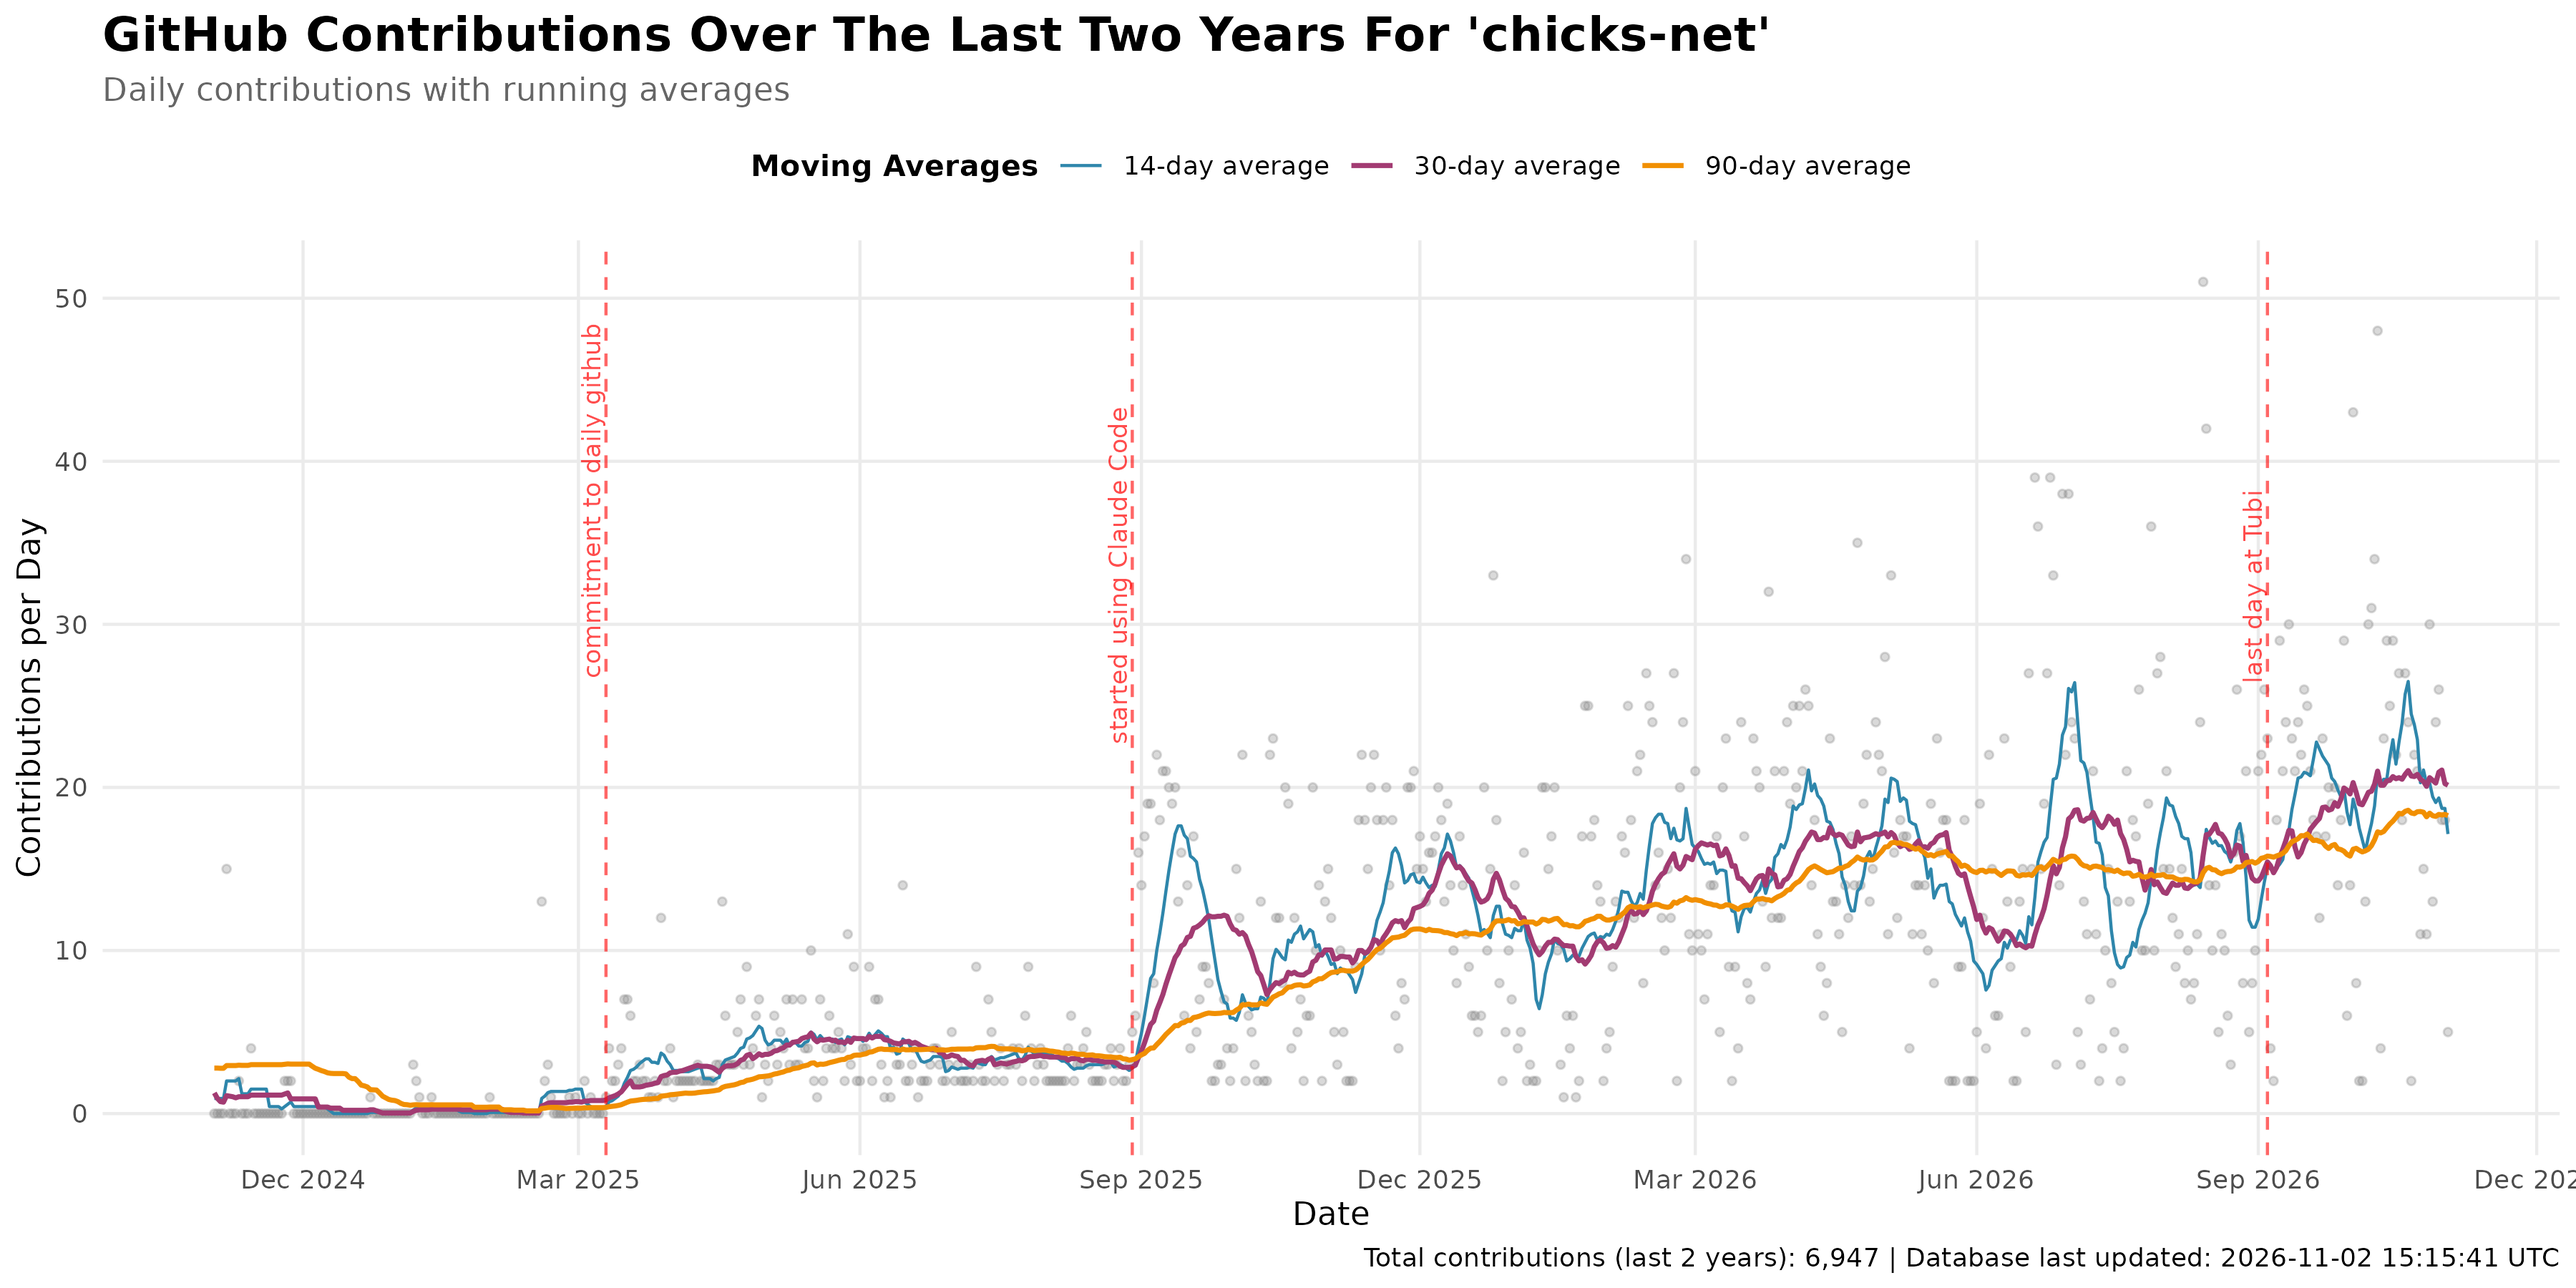
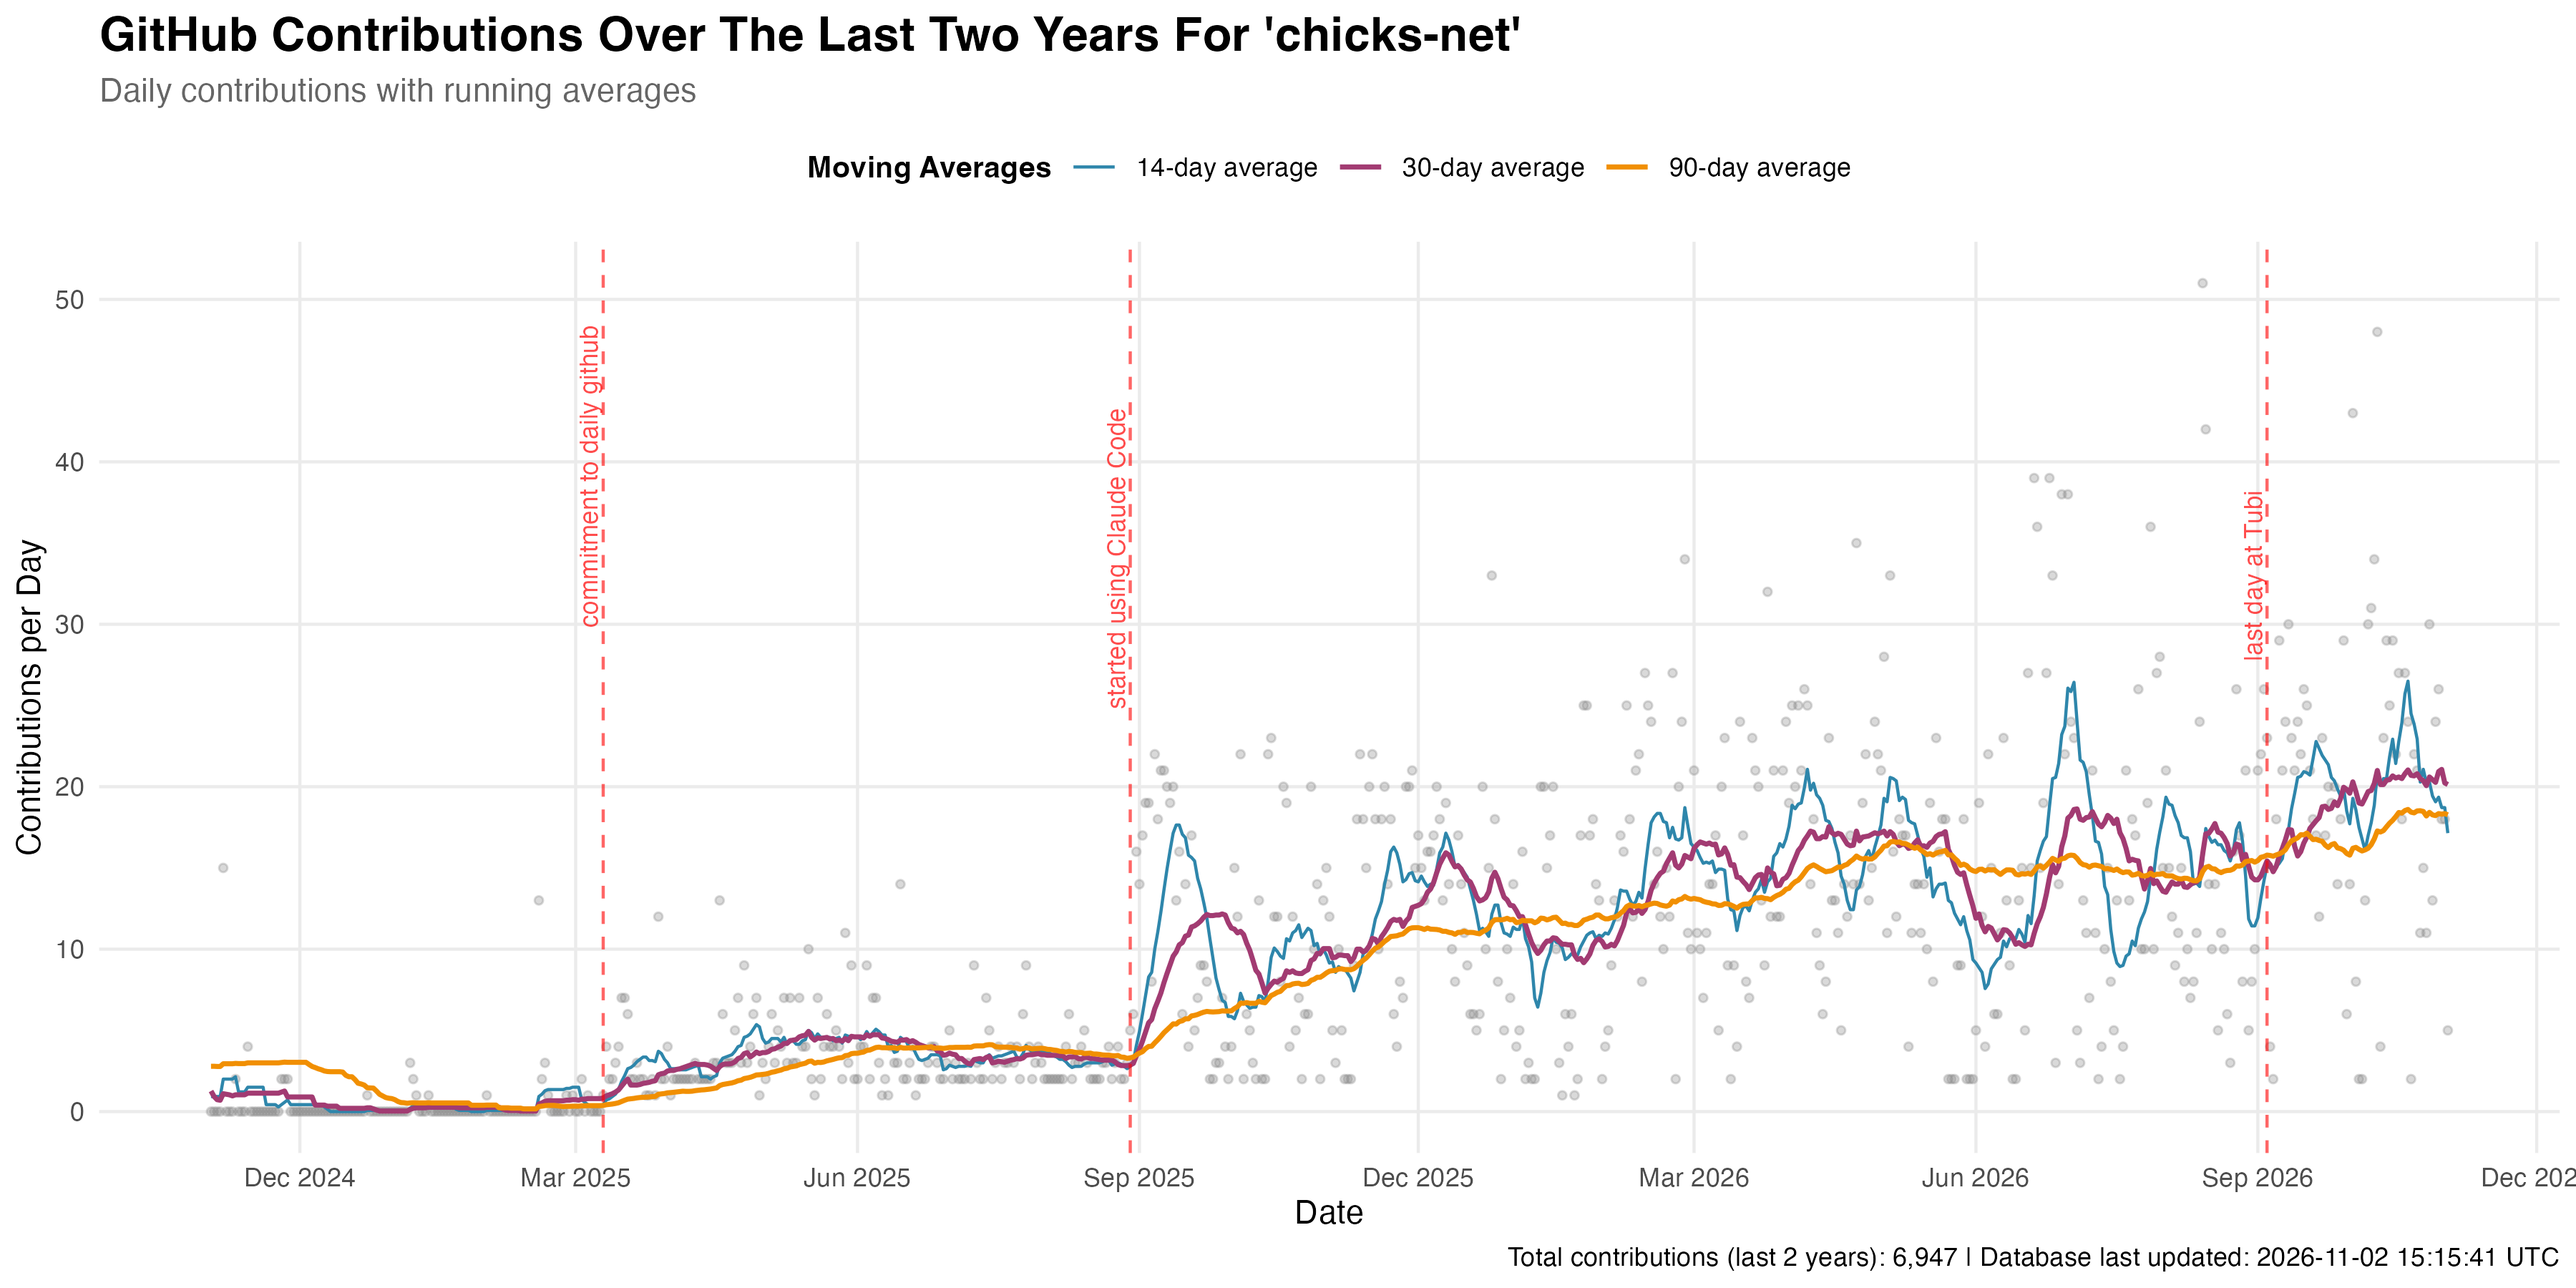
🗓 [github] projected contributions look back 10 days early in the month to reduce wild fluctuations (#623)
* 🗓 [github] projected contributions look back 10 days early in the month to reduce wild fluctuations

* 🗓 [github] address Claude review: anchor projection to data date, name constants, dedupe empty projection df

* 🗓 [github] project remaining days at pace on top of banked month-to-date

* 🗓 [github] sync LinearWalkthrough with trailing-pace projection; fix walkthrough-pdf shell

---------

diff --git a/individuals/chicks/github/contributions-analysis/LinearWalkthrough.md b/individuals/chicks/github/contributions-analysis/LinearWalkthrough.md
@@ -32,10 +32,15 @@ library(grid)
 
 ---
 
-## 2. Database Connection & Data Loading (lines 18-35)
+## 2. Database Connection & Data Loading (lines 18-40)
 
 ```r
 db_path <- "../contributions.db"
+
+# Projection settings for the current month's grey cap
+first_week_days <- 7        # days 1-7 project from a trailing pace
+trailing_window_days <- 10  # size of the trailing pace window
+projection_bar_width <- 25  # grey cap width in days (approximately one month)
 
 cat("Connecting to database:", db_path, "\n")
 con <- dbConnect(SQLite(), db_path)
@@ -58,9 +63,11 @@ The `WHERE fetched_at = (SELECT MAX(fetched_at)...)` subquery handles incrementa
 
 **Why the relative path?** The script assumes it's run from the `contributions-analysis/` directory, so `../contributions.db` correctly resolves to `individuals/chicks/github/contributions.db`.
 
+**Projection tunables:** The three constants next to the path configure the current-month projection (see section 9): `first_week_days` is how many days count as the "first week" (where the projection uses a trailing pace), `trailing_window_days` is the size of that pace window, and `projection_bar_width` is the width of the grey cap rectangle.
+
 ---
 
-## 3. Database Metadata & Timestamp Formatting (lines 37-41)
+## 3. Database Metadata & Timestamp Formatting (lines 42-47)
 
 ```r
 last_updated <- dbGetQuery(con, "SELECT MAX(fetched_at) as last_updated FROM contributions")$last_updated
@@ -76,7 +83,7 @@ dbDisconnect(con)
 
 ---
 
-## 4. Running Average Calculations (lines 46-58)
+## 4. Running Average Calculations (lines 51-63)
 
 ```r
 contributions$date <- as.Date(contributions$date)
@@ -102,7 +109,7 @@ contributions <- contributions %>%
 
 ---
 
-## 5. Summary Statistics Output (lines 60-81)
+## 5. Summary Statistics Output (lines 65-85)
 
 ```r
 cat("=== SUMMARY STATISTICS ===\n\n")
@@ -124,14 +131,19 @@ cat("Days with contributions:", sum(contributions$contribution_count > 0), "\n\n
 
 ---
 
-## 6. First Plot: Two-Year Timeline (lines 82-144)
+## 6. First Plot: Two-Year Timeline (lines 87-153)
 
 ```r
 plot_start <- max(min(contributions$date), Sys.Date() - 730)
 plot_data <- contributions %>% filter(date >= plot_start)
+plot_total_contributions <- sum(plot_data$contribution_count)
+
+today <- Sys.Date()
+points_data <- plot_data %>% filter(!(date == today & contribution_count == 0))
 
 p <- ggplot(plot_data, aes(x = date)) +
-  geom_point(aes(y = contribution_count),
+  geom_point(data = points_data,
+              aes(y = contribution_count),
               alpha = 0.3,
               size = 1,
               color = "gray50") +
@@ -159,6 +171,8 @@ p <- ggplot(plot_data, aes(x = date)) +
   scale_x_date(date_breaks = "3 months", date_labels = "%b %Y")
 ```
 
+**Why drop today when it's quiet?** A zero for today usually means the day just isn't over yet, so that point is excluded from the daily scatter rather than drawn as a misleading zero. (The running-average lines still include it.)
+
 **Layer ordering matters:** Points are drawn first (layered behind the lines), making the trend lines more prominent.
 
 **Transparency (`alpha`):** Daily points are semi-transparent so you can see density when multiple points overlap.
@@ -173,7 +187,7 @@ p <- ggplot(plot_data, aes(x = date)) +
 | 30-day | Purple | `#A23B72` |
 | 90-day | Orange | `#F18F01` |
 
-### Milestone Annotations (lines 131-139)
+### Milestone Annotations (lines 141-153)
 
 ```r
 geom_vline(xintercept = as.Date("2025-03-10"), linetype = "dashed", color = "red", alpha = 0.6) +
@@ -194,7 +208,7 @@ These vertical lines mark significant changes in contribution behavior. The text
 
 ---
 
-## 7. Job History Loading & Processing (lines 165-213)
+## 7. Job History Loading & Processing (lines 179-207)
 
 ```r
 jobs_csv <- "../../jobs/job_history.csv"
@@ -218,7 +232,7 @@ jobs <- jobs %>%
 
 **Handling current employment:** If `End.Date` is empty, it means the job is current, so we fill with `Sys.Date()`.
 
-### Logo Handling (lines 195-213)
+### Logo Handling (lines 209-227)
 
 ```r
 logos_dir <- "../../jobs/"
@@ -245,7 +259,7 @@ jobs_filtered$has_logo <- jobs_filtered$Company %in% names(logos)
 
 ---
 
-## 8. Second Plot: Weekly Aggregation (lines 147-313)
+## 8. Second Plot: Weekly Aggregation (lines 163-327)
 
 ```r
 weekly_data <- contributions %>%
@@ -268,7 +282,7 @@ weekly_data <- contributions %>%
 
 **Why calculate average per day?** The running averages are based on daily averages within weeks, then multiplied by 7 when plotting to show "contributions per week" on the y-axis.
 
-### Employment Period Overlays (lines 217-235)
+### Employment Period Overlays (lines 229-249)
 
 ```r
 geom_rect(data = jobs_filtered,
@@ -295,20 +309,22 @@ geom_text(data = subset(jobs_filtered, !has_logo),
 
 **Alternating colors:** The `fill_color` column uses modulo arithmetic to alternate between two muted colors (`#7B9FCC` and `#C8BFB0`), making adjacent employment periods visually distinct.
 
-### Logo Placement (lines 238-256)
+### Logo Placement (lines 251-283)
 
 ```r
+plot_max_y <- max(weekly_data$contributions, na.rm = TRUE)
 for (company in names(logos)) {
   job_row <- jobs_filtered[jobs_filtered$Company == company, ]
   if (nrow(job_row) > 0) {
     img <- logos[[company]]
     img_grob <- rasterGrob(img, interpolate = TRUE)
     x_pos <- job_row$midpoint
+    # Telmate logo is smaller and needs label
     if (company == "Telmate") {
       logo_height <- plot_max_y * 0.24
       logo_y <- plot_max_y * 0.92
     } else {
-      logo_height <- plot_max_y * 0.60
+      logo_height <- plot_max_y * 0.20
       logo_y <- plot_max_y * 0.90
     }
     p2 <- p2 + annotation_custom(img_grob,
@@ -318,11 +334,11 @@ for (company in names(logos)) {
 }
 ```
 
-**Why different logo sizes?** The Telmate logo is smaller and needs a text label below it. Other logos are scaled to 60% of the plot height. The `xmin/xmax` spans 240 days width (±120 from midpoint).
+**Why different logo sizes?** The Telmate logo is scaled to 24% of the plot height and gets an extra "Telmate" text annotation above it; the other logos use 20%. The `xmin/xmax` spans 240 days of width (±120 from the employment-period midpoint). The same placement code is repeated for the monthly plot (`p3`), scaled to that plot's maximum.
 
 ---
 
-## 9. Third Plot: Monthly Aggregation (lines 315-477)
+## 9. Third Plot: Monthly Aggregation (lines 329-513)
 
 ```r
 monthly_data <- contributions %>%
@@ -345,35 +361,103 @@ monthly_data <- contributions %>%
 
 **Why 6 and 12-month windows?** Monthly data is smoother than daily, so longer averaging windows make more sense. These show semi-annual and annual trends.
 
-### Incomplete Month Projection (lines 339-373)
+### Moving Averages for Last Month (lines 347-351)
+
+```r
+mutate(
+  avg_6month = ifelse(month == max(month), NA, avg_6month),
+  avg_12month = ifelse(month == max(month), NA, avg_12month)
+)
+```
+
+**Why exclude the current month?** The last month is typically incomplete, so its running average would be misleadingly low. We set it to `NA` so the lines stop before the final month.
+
+### Incomplete Month Projection (lines 353-408)
 
 ```r
 current_month <- floor_date(Sys.Date(), "month")
+empty_projection <- data.frame(
+  xmin = as.Date(character()),
+  xmax = as.Date(character()),
+  ymin = numeric(),
+  ymax = numeric()
+)
 if (current_month %in% monthly_data$month) {
-  days_in_current_month <- day(Sys.Date())
+  data_date <- max(contributions$date)
+  days_elapsed <- day(data_date)
   total_days_in_month <- days_in_month(current_month)
-  
+
   actual_contributions <- monthly_data %>%
     filter(month == current_month) %>%
     pull(contributions)
-  
-  projected_total <- actual_contributions * (total_days_in_month / days_in_current_month)
-  projected_additional <- projected_total - actual_contributions
-  
-  bar_width <- 25
-  
+
+  if (days_elapsed <= first_week_days) {
+    trailing_window <- contributions %>%
+      filter(date > data_date - trailing_window_days, date <= data_date)
+    pace <- sum(trailing_window$contribution_count) / max(nrow(trailing_window), 1)
+  } else {
+    pace <- actual_contributions / days_elapsed
+  }
+
+  projected_total <- actual_contributions +
+    pace * (total_days_in_month - days_elapsed)
+  cat("Current month projection:", format(round(projected_total), big.mark = ","),
+      "projected vs", format(actual_contributions, big.mark = ","), "actual\n")
+
   monthly_projection <- data.frame(
-    xmin = current_month - bar_width / 2,
-    xmax = current_month + bar_width / 2,
+    xmin = current_month - projection_bar_width / 2,
+    xmax = current_month + projection_bar_width / 2,
     ymin = actual_contributions,
     ymax = projected_total
   )
+} else {
+  monthly_projection <- empty_projection
 }
 ```
 
-**How projection works:** If we're in the middle of a month, we calculate what the total would be if contributions continue at the same rate. For example, if 15 days into a 30-day month we have 30 contributions, the projected total is `30 * (30/15) = 60`.
+**How projection works:** The projected month-end total is what has already been banked plus the unknown remainder at an estimated daily pace:
 
-**Bar width calculation:** `bar_width = 25` days ensures the projection rectangle aligns with the monthly bar width.
+```text
+projected_total = actual_contributions + pace * (total_days_in_month - days_elapsed)
+```
+
+Because the banked month-to-date total is never scaled, the projection can never
+fall below it - the grey cap is never inverted, and no special-case guard is
+needed. On the last day of a completed month the remainder is zero, so the cap
+has zero height and simply does not show.
+
+**Two pace estimates:**
+
+- **Days 1-7** (`days_elapsed <= first_week_days`): the average over a trailing
+  10-day window that reaches back into the prior month. On the 2nd of the
+  month, month-to-date scaling would multiply a two-day sample by 15; the
+  trailing window smooths that out. The database stores a row for every day
+  (zero-contribution days included), so rows are days with data - a missing
+  row means the fetch lagged, and it is excluded from the average rather
+  than counted as a zero.
+- **Day 8 onward:** the month-to-date average
+  (`actual_contributions / days_elapsed`), which by then rests on enough days
+  to be a reasonable estimate.
+
+**Why anchor to `max(contributions$date)`?** If the fetch job has not run yet
+today, the wall clock would claim more elapsed days than the data contains.
+Anchoring both `days_elapsed` and the window filter to the latest date in the
+data keeps the formula and the data consistent.
+
+**Worked examples:**
+
+- 15 days into a 30-day month with 30 contributions: pace = 30/15 = 2/day, so
+  the projection is `30 + 2 * 15 = 60`.
+- November 2nd with 23 contributions banked and a trailing 10-day window
+  totaling 171: pace = 17.1/day, so the projection is `23 + 17.1 * 28 = 501.8`
+  (printed as 502).
+
+**The `cat()` line** prints the projection on every run (e.g. `Current month
+projection: 502 projected vs 23 actual`) so the estimate is visible without
+squinting at the chart.
+
+**Bar width calculation:** `projection_bar_width = 25` days keeps the cap
+aligned with the monthly bar.
 
 ```r
 geom_rect(data = monthly_projection,
@@ -384,18 +468,9 @@ geom_rect(data = monthly_projection,
           inherit.aes = FALSE)
 ```
 
-**Visual distinction:** The projected portion is drawn in semi-transparent gray (`alpha = 0.3`) to clearly show it's an estimate, not actual data.
-
-### Moving Averages for Last Month (lines 333-337)
-
-```r
-mutate(
-  avg_6month = ifelse(month == max(month), NA, avg_6month),
-  avg_12month = ifelse(month == max(month), NA, avg_12month)
-)
-```
-
-**Why exclude the current month?** The last month is typically incomplete, so its running average would be misleadingly low. We set it to `NA` so the lines stop before the final month.
+**Visual distinction:** The projected portion is drawn in semi-transparent
+gray (`alpha = 0.3`) after the blue bars, so it caps the month-to-date total.
+It clearly reads as an estimate, not actual data.
 
 ---
 

diff --git a/individuals/chicks/github/contributions-analysis/README.md b/individuals/chicks/github/contributions-analysis/README.md
@@ -39,6 +39,11 @@ Shows monthly contribution totals with multi-month running averages to
 identify seasonal patterns and long-term trends.
 
 - **Blue bars**: Monthly contribution totals
+- **Grey cap**: Projected month-end total for the current (incomplete) month:
+  the month-to-date total plus the remaining days projected at an estimated
+  daily pace. In the first week the pace is the average over a trailing
+  10-day window (which spans back into the prior month) since extrapolating
+  from a couple of days is noisy; after that it is the month-to-date average.
 - **Purple line**: 6-month running average (semi-annual trend)
 - **Orange line**: 12-month running average (annual trend)
 
